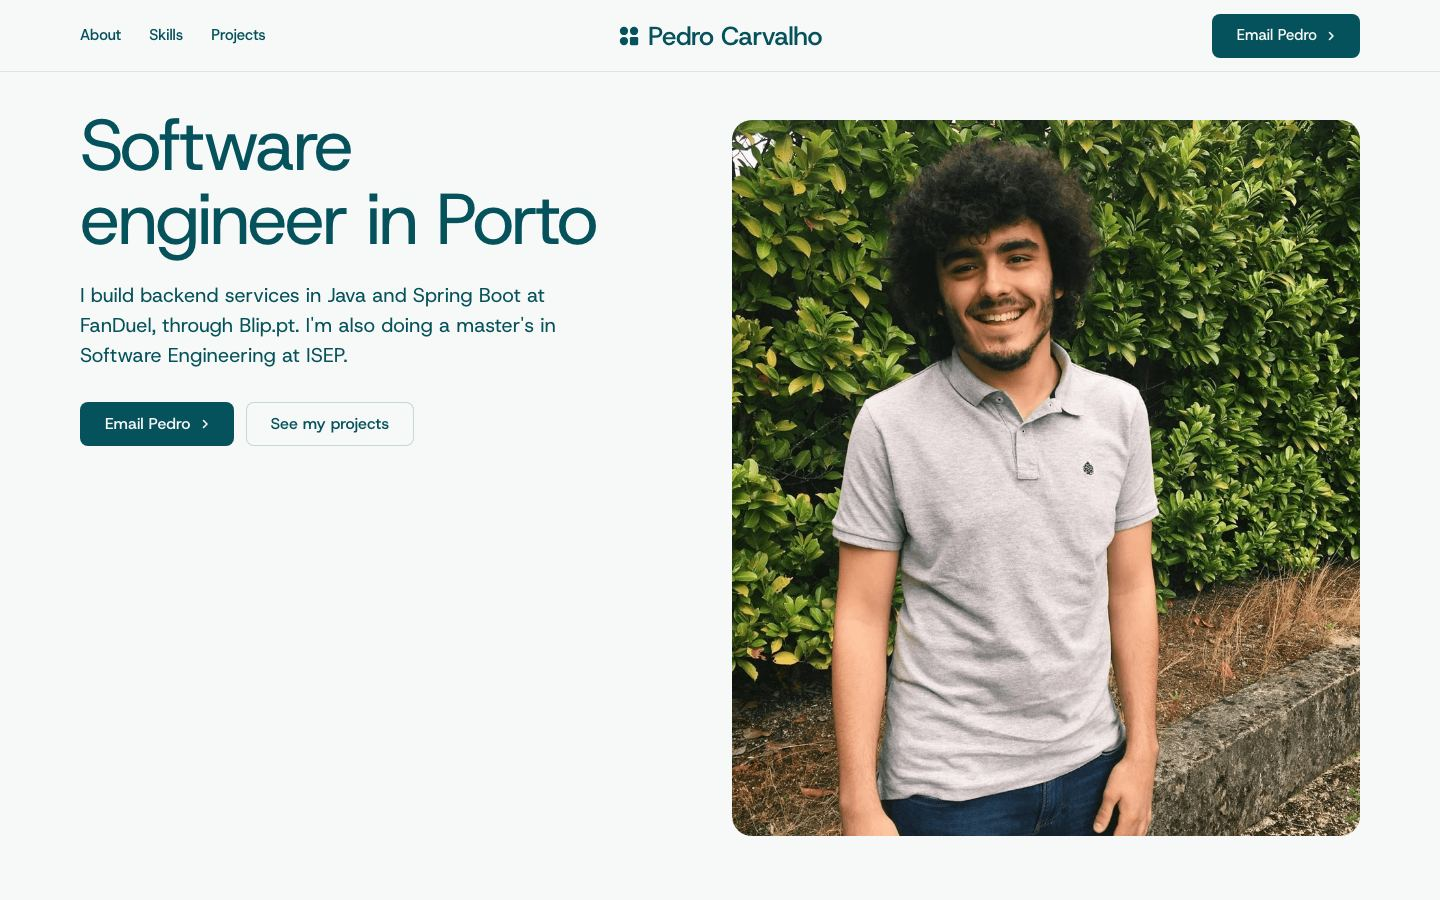
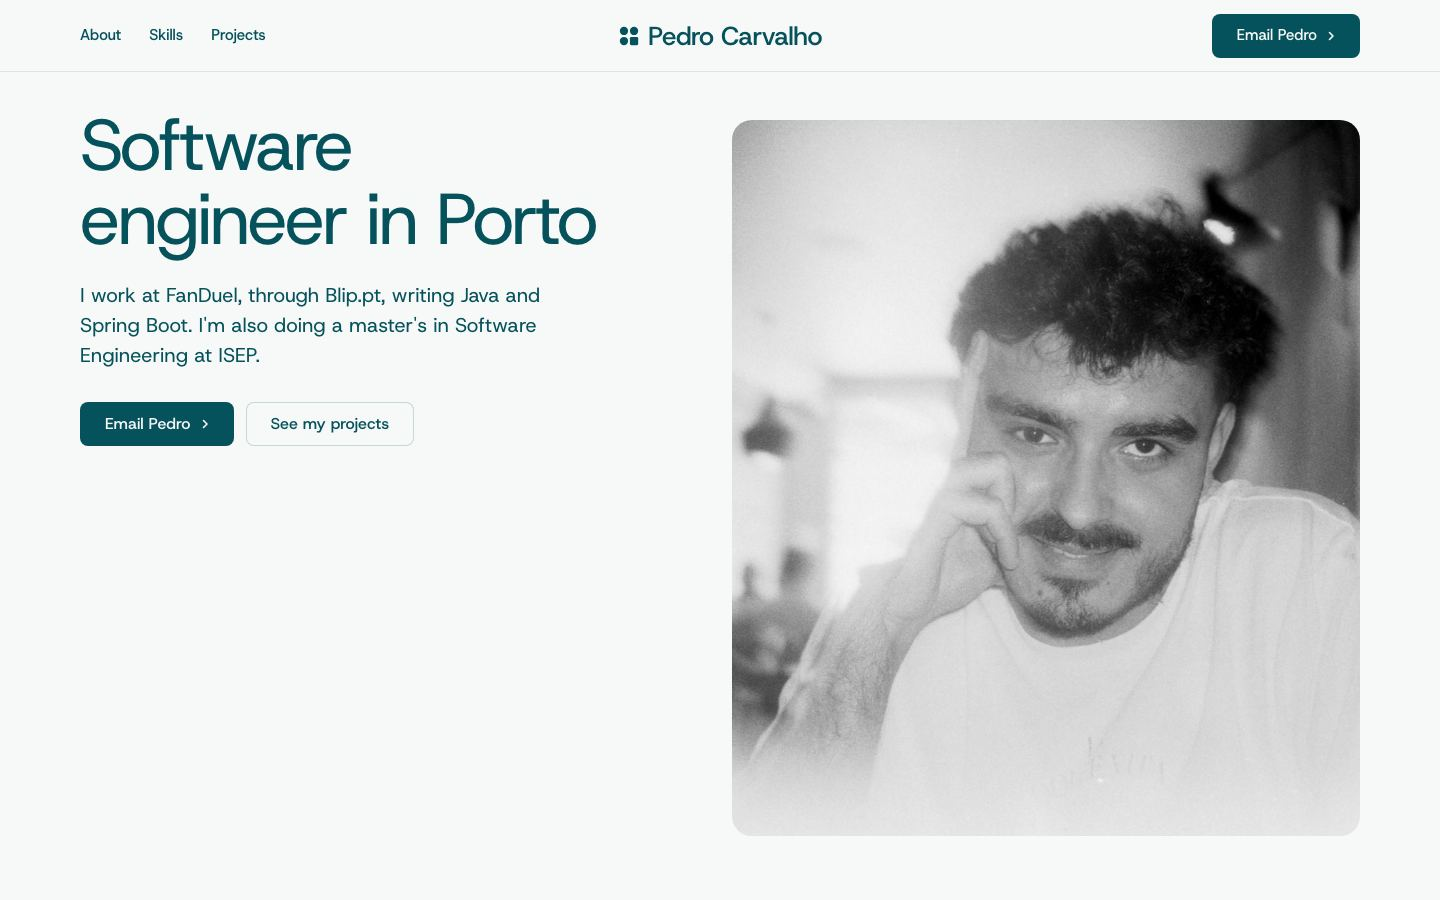
Hero: use the black and white portrait; refresh share image

diff --git a/lib/page.ts b/lib/page.ts
@@ -99,7 +99,7 @@ export async function renderPage(): Promise<string> {
         <div class="btn-row"><a class="btn btn--primary" href="mailto:${EMAIL}">Email Pedro${arrow}</a><a class="btn btn--secondary" href="#projects">See my projects</a></div>
       </div>
       <div class="hero__media span-6 start-7">
-        <img src="/img/pedro.jpg" srcset="/img/pedro-640.jpg 640w, /img/pedro.jpg 1100w" sizes="(max-width: 1023px) 100vw, 628px" alt="Portrait of Pedro Carvalho" style="--ly-pos: 50% 30%" fetchpriority="high" width="1100" height="1100">
+        <img src="/img/pedro.jpg" srcset="/img/pedro-640.jpg 533w, /img/pedro.jpg 1000w" sizes="(max-width: 1023px) 100vw, 628px" alt="Black and white portrait of Pedro Carvalho, smiling with his hand on his cheek" style="--ly-pos: 55% 38%" fetchpriority="high" width="1000" height="1500">
       </div>
     </div></div>
   </section>
